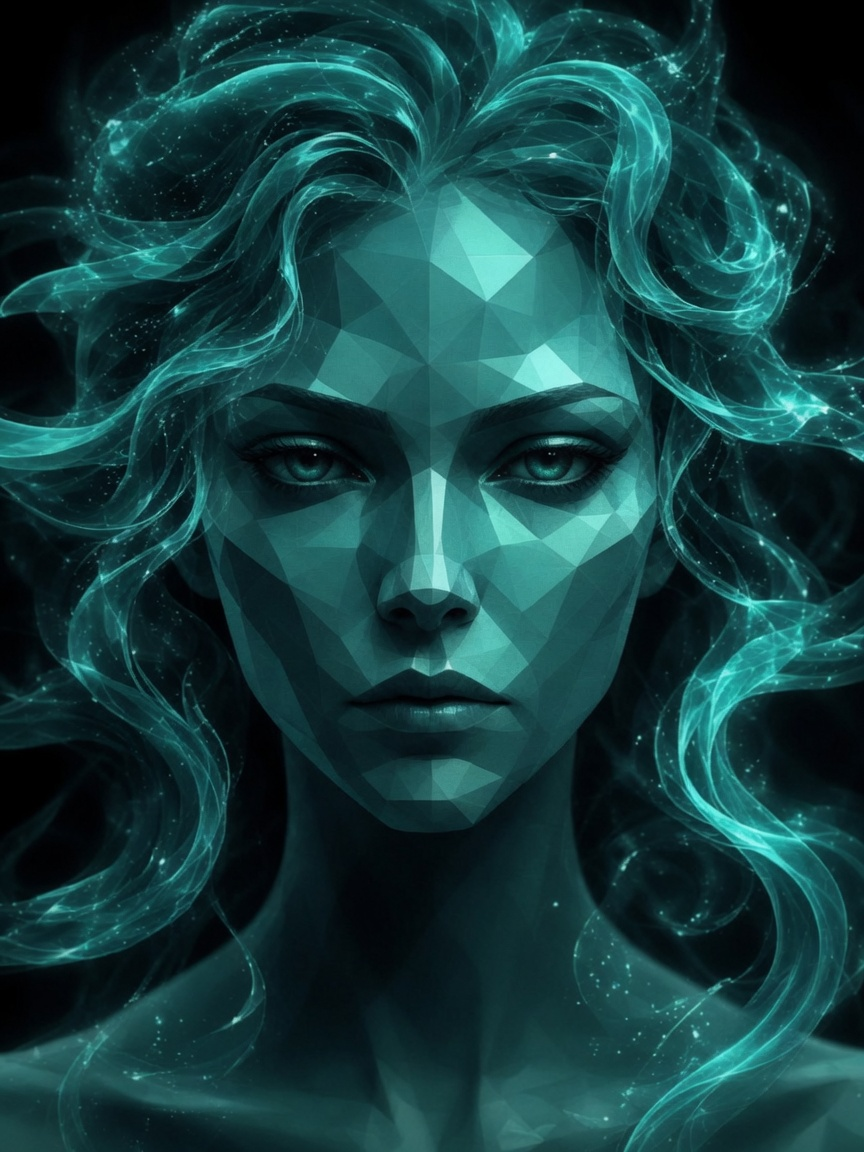
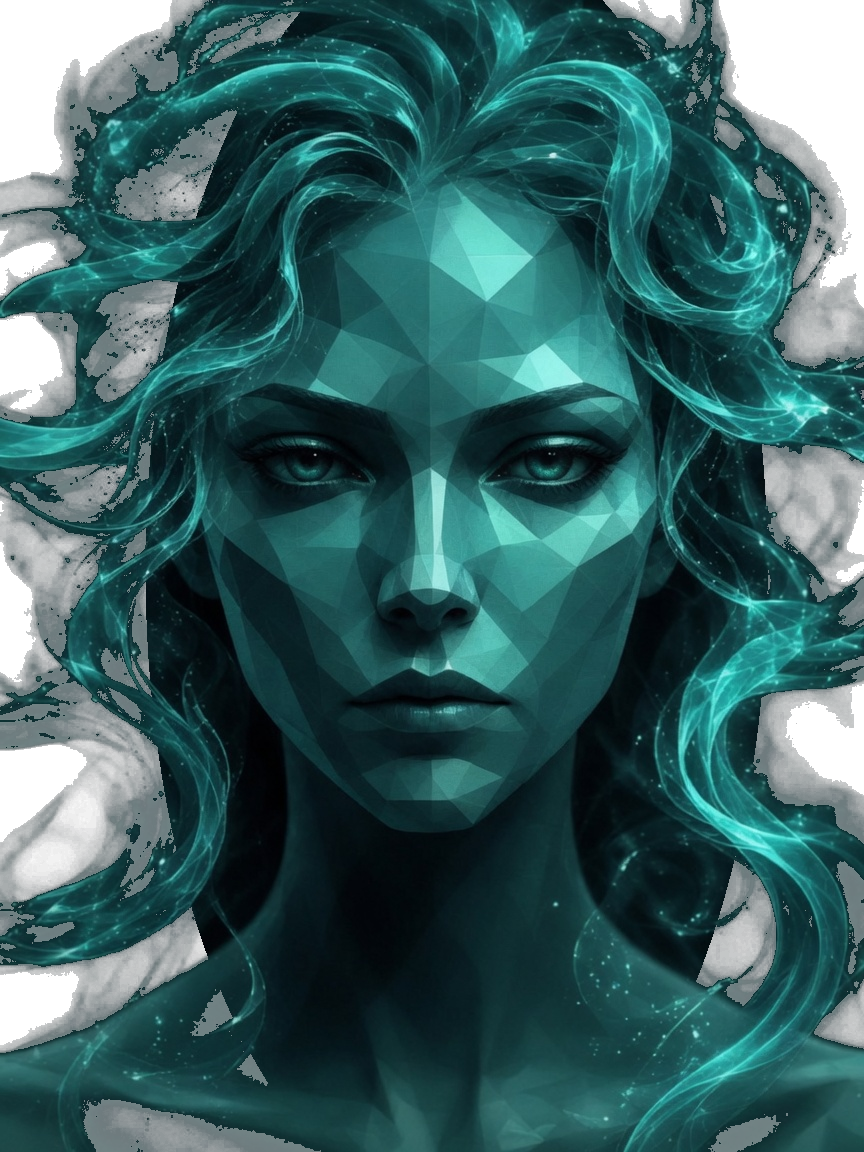
Cut real alpha into Solphia so she sits on the void

diff --git a/src/app/globals.css b/src/app/globals.css
@@ -156,13 +156,13 @@ body {
 }
 
 .solphia-hero-veil {
-  -webkit-mask-image: radial-gradient(ellipse 92% 90% at 50% 30%, #000 40%, rgba(0, 0, 0, 0.78) 64%, rgba(0, 0, 0, 0.22) 84%, transparent 100%);
-  mask-image: radial-gradient(ellipse 92% 90% at 50% 30%, #000 40%, rgba(0, 0, 0, 0.78) 64%, rgba(0, 0, 0, 0.22) 84%, transparent 100%);
+  -webkit-mask-image: linear-gradient(to bottom, #000 0%, #000 68%, rgba(0, 0, 0, 0.45) 88%, transparent 100%);
+  mask-image: linear-gradient(to bottom, #000 0%, #000 68%, rgba(0, 0, 0, 0.45) 88%, transparent 100%);
 }
 
 .solphia-hero-extend {
-  transform: scale(1.22);
-  transform-origin: 50% 4%;
+  transform: scale(1.18);
+  transform-origin: 50% 2%;
 }
 
 .solphia-locks {
@@ -176,10 +176,10 @@ body {
 @keyframes solphia-breathe {
   0%,
   100% {
-    transform: scale(1.14) translate3d(0, 0, 0);
+    transform: scale(1.08) translate3d(0, 0, 0);
   }
   50% {
-    transform: scale(1.14) translate3d(-0.5%, -0.35%, 0);
+    transform: scale(1.08) translate3d(-0.4%, -0.3%, 0);
   }
 }
 
@@ -208,8 +208,8 @@ body {
 }
 
 .solphia-constellation-veil {
-  -webkit-mask-image: radial-gradient(ellipse 64% 98% at 88% 42%, #000 30%, rgba(0, 0, 0, 0.78) 56%, rgba(0, 0, 0, 0.22) 78%, transparent 100%);
-  mask-image: radial-gradient(ellipse 64% 98% at 88% 42%, #000 30%, rgba(0, 0, 0, 0.78) 56%, rgba(0, 0, 0, 0.22) 78%, transparent 100%);
+  -webkit-mask-image: linear-gradient(to bottom, #000 0%, #000 78%, rgba(0, 0, 0, 0.5) 92%, transparent 100%);
+  mask-image: linear-gradient(to bottom, #000 0%, #000 78%, rgba(0, 0, 0, 0.5) 92%, transparent 100%);
 }
 
 .card-lift {

diff --git a/src/components/SolphiaConstellation.tsx b/src/components/SolphiaConstellation.tsx
@@ -206,20 +206,18 @@ export function SolphiaConstellation() {
 
   return (
     <div ref={wrap} className="pointer-events-none fixed inset-0 z-0 isolate overflow-hidden bg-void" aria-hidden="true">
-      <div
-        className="solphia-constellation-veil absolute inset-0 mix-blend-screen"
-      >
+      <div className="solphia-constellation-veil absolute inset-0">
         {/* eslint-disable-next-line @next/next/no-img-element */}
         <img
           ref={photo}
-          src="/solphia-constellation.jpg?v=7"
+          src="/solphia-body.png?v=8"
           alt=""
           draggable={false}
-          className="solphia-breathe absolute inset-0 h-full w-full object-contain object-right opacity-[0.72]"
+          className="solphia-breathe absolute inset-0 h-full w-full object-contain object-right"
         />
         <canvas ref={canvas} className="pointer-events-none absolute inset-0 h-full w-full" />
       </div>
-      <div className="absolute inset-0 bg-[radial-gradient(ellipse_at_78%_42%,rgba(20,241,149,0.05),transparent_40%),radial-gradient(ellipse_at_22%_16%,rgba(153,69,255,0.07),transparent_46%),linear-gradient(to_right,rgba(4,0,10,0.5)_0%,rgba(4,0,10,0.08)_48%,transparent_76%)]" />
+      <div className="absolute inset-0 bg-[radial-gradient(ellipse_at_22%_16%,rgba(153,69,255,0.07),transparent_46%),linear-gradient(to_right,rgba(4,0,10,0.45)_0%,rgba(4,0,10,0.06)_42%,transparent_68%)]" />
     </div>
   );
 }

diff --git a/src/components/SolphiaFace.tsx b/src/components/SolphiaFace.tsx
@@ -93,7 +93,7 @@ export function SolphiaFace({ mode = "panel" }: { mode?: "hero" | "panel" | "lau
   const photo = useRef<HTMLImageElement>(null);
   const hero = mode === "hero";
   const launch = mode === "launch";
-  const src = launch ? "/solphia-launch.jpg?v=7" : hero ? "/solphia-hero.jpg?v=7" : "/solphia-face.jpg?v=7";
+  const src = launch ? "/solphia-launch.png?v=8" : hero ? "/solphia-hero.png?v=8" : "/solphia-face.png?v=8";
 
   useEffect(() => {
     const c = canvas.current;
